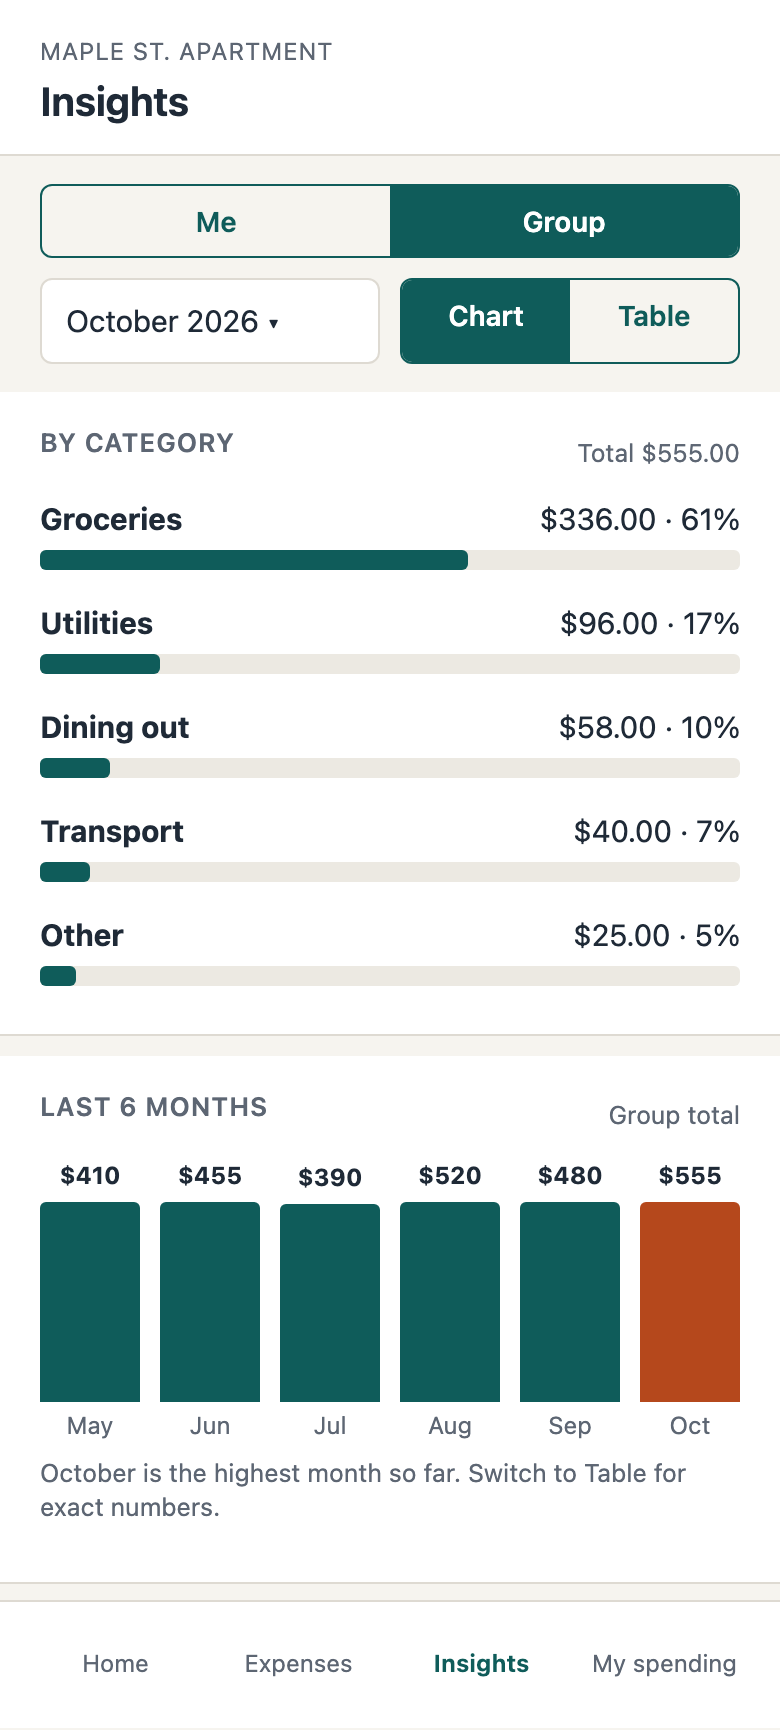
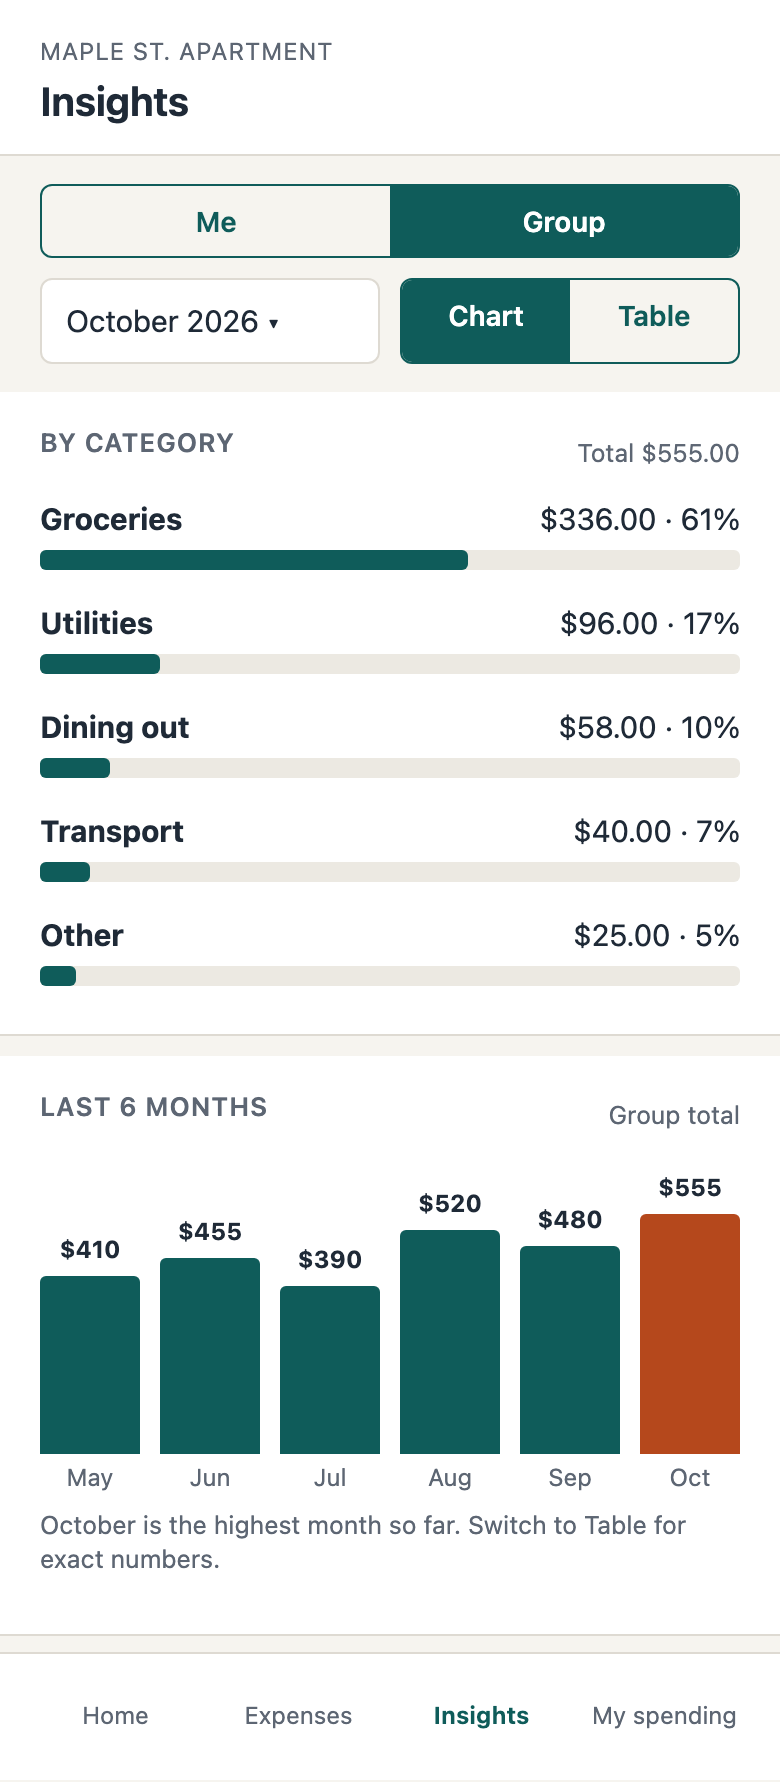
docs(design): draw the 6-month bars in proportion (#5)
The bars used percentage heights that collapsed to equal heights in the
grid row. They now use pixel heights from data-value, and the render
script fails if the rendered bars do not match their amounts.

diff --git a/docs/design/mockup.html b/docs/design/mockup.html
@@ -415,7 +415,7 @@
         grid-template-columns: repeat(6, 1fr);
         gap: 10px;
         align-items: end;
-        height: 150px;
+        height: 176px;
         padding-top: 8px;
       }
       .trend .col {
@@ -785,27 +785,33 @@
         >
           <div class="col">
             <strong>$410</strong
-            ><span class="bar-v" style="height: 74%"></span>May
+            ><span class="bar-v" data-value="410" style="height: 89px"></span
+            >May
           </div>
           <div class="col">
             <strong>$455</strong
-            ><span class="bar-v" style="height: 82%"></span>Jun
+            ><span class="bar-v" data-value="455" style="height: 98px"></span
+            >Jun
           </div>
           <div class="col">
             <strong>$390</strong
-            ><span class="bar-v" style="height: 70%"></span>Jul
+            ><span class="bar-v" data-value="390" style="height: 84px"></span
+            >Jul
           </div>
           <div class="col">
             <strong>$520</strong
-            ><span class="bar-v" style="height: 94%"></span>Aug
+            ><span class="bar-v" data-value="520" style="height: 112px"></span
+            >Aug
           </div>
           <div class="col">
             <strong>$480</strong
-            ><span class="bar-v" style="height: 86%"></span>Sep
+            ><span class="bar-v" data-value="480" style="height: 104px"></span
+            >Sep
           </div>
           <div class="col now">
             <strong>$555</strong
-            ><span class="bar-v" style="height: 100%"></span>Oct
+            ><span class="bar-v" data-value="555" style="height: 120px"></span
+            >Oct
           </div>
         </div>
         <p class="note">
